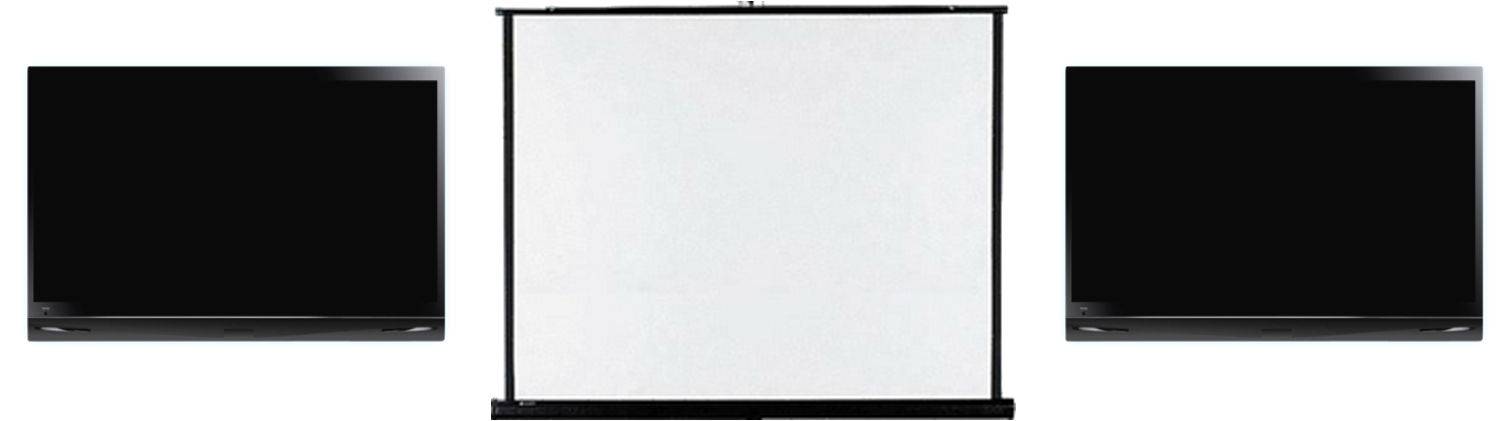
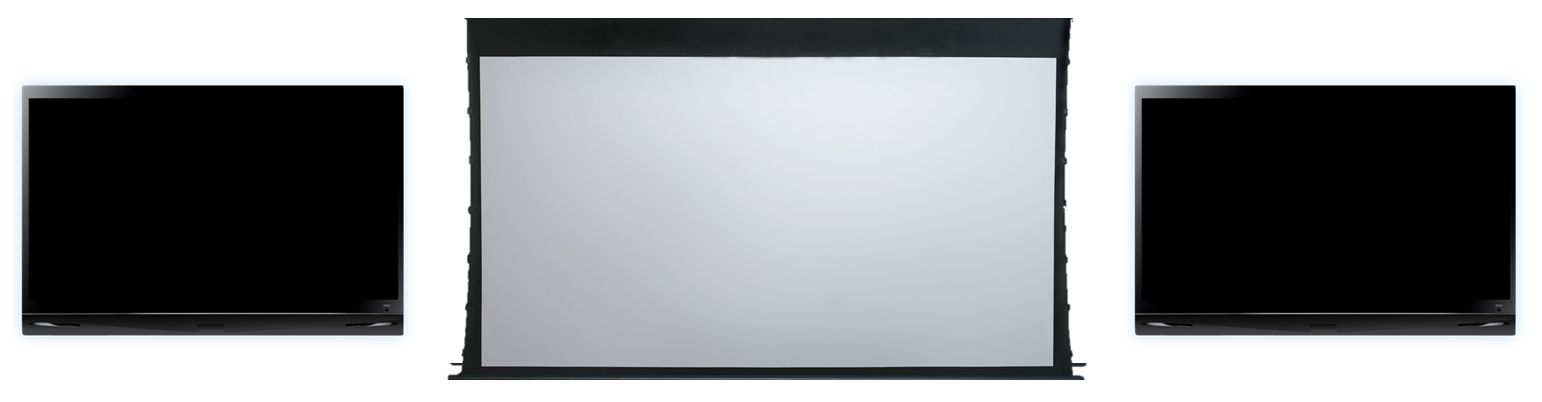
Changing background still

diff --git a/2090_3-28-13/source/css/2090.css b/2090_3-28-13/source/css/2090.css
@@ -179,7 +179,7 @@ nav a:hover{
 .active { border-color: rgb(255, 255, 0); }
 .hover { background-color: rgb(250, 250, 0); background-color: rgba(250,250,0,0.3); }
 .sourcelabel {position: absolute; padding-left:5%; bottom:0; right:1; font-size: 1.5em; }
-#topbar { padding-top: 2px; width: 100%; display: block; line-height: 0.9; margin-top:1%; background-image: url('../img/allDisplays2.png'); background-size: 55%; background-repeat: no-repeat; background-position: center bottom;}
+#topbar { padding-top: 2px; width: 100%; display: block; line-height: 0.9; margin-top:1%; background-image: url('../img/allDisplays2.png'); background-size: 45%; background-repeat: no-repeat; background-position: center bottom;}
 #allLZ { width: 54.5%; background-size: 100%;}
 #source-container { margin: 10px;  padding-bottom: 5px; clear: both; overflow: auto; -moz-border-radius: 20px; border-radius: 20px; border-style: solid; border-color: rgb(51, 153, 255); background-color: rgb(11, 61, 145); background-color: rgba(11, 61, 145, 0.5); filter:progid:DXImageTransform.Microsoft.gradient(startColorstr=#99000000, endColorstr=#99000000); -ms-filter: "progid:DXImageTransform.Microsoft.gradient(startColorstr=#99000000, endColorstr=#99000000)"; }
 #reset { clear: left; float: left; }
